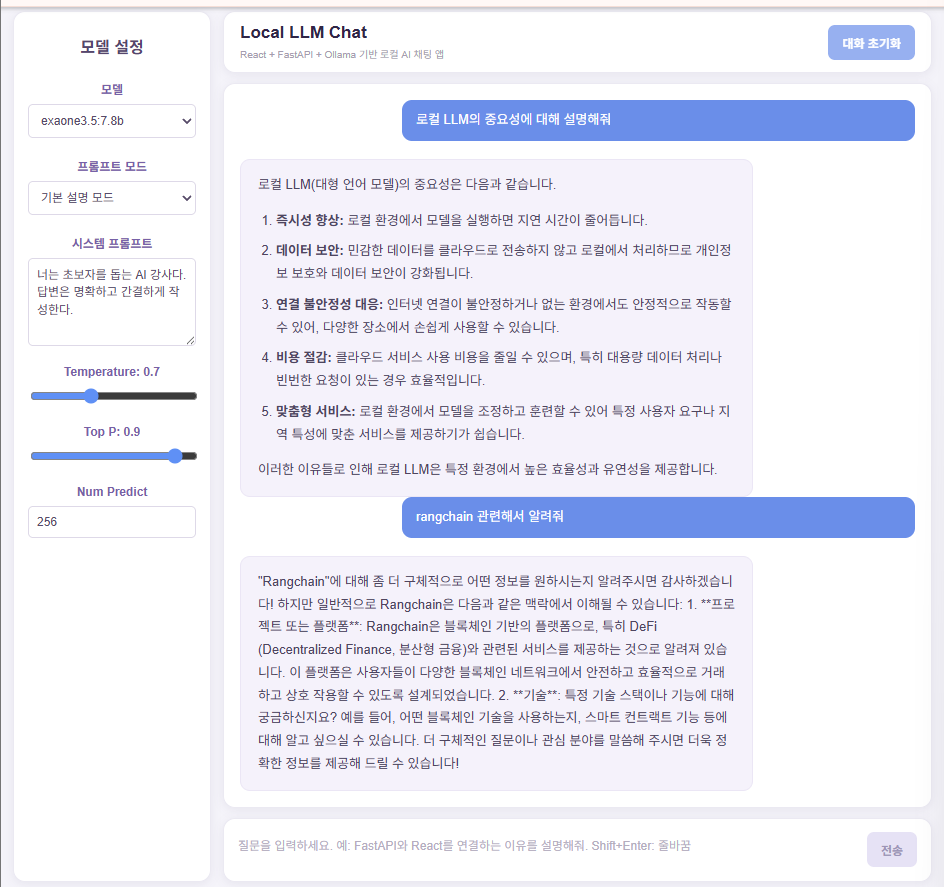
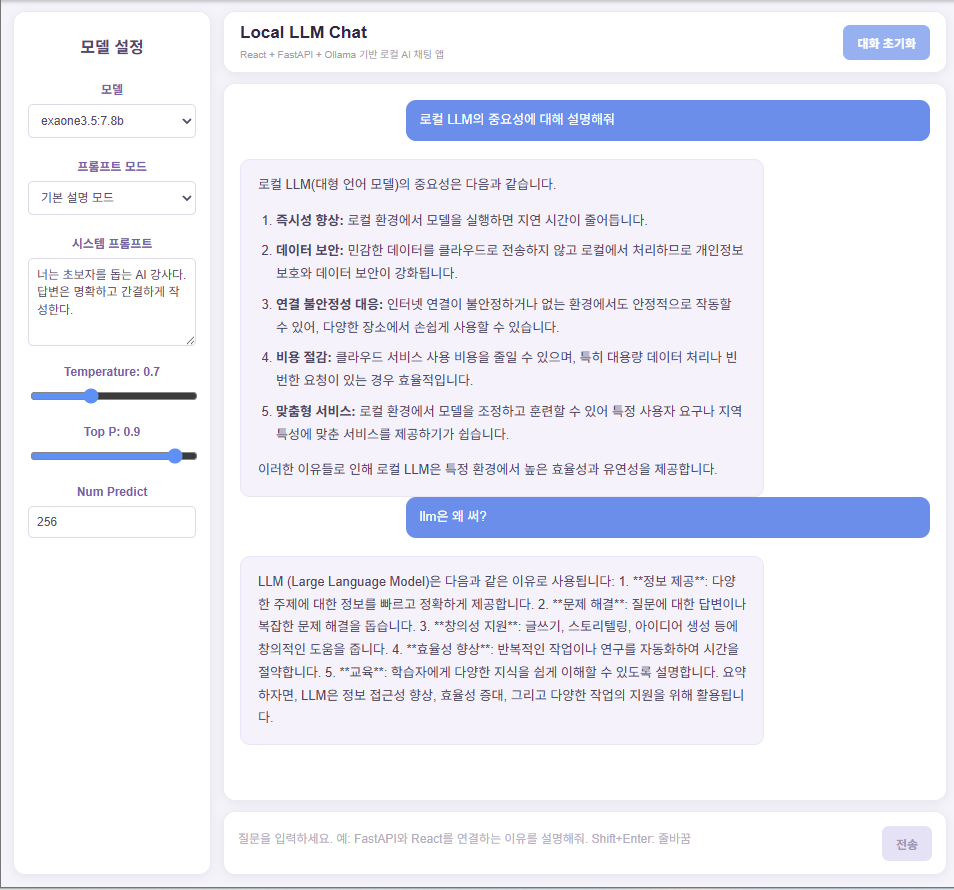
docs: update README image

diff --git a/README.md b/README.md
@@ -1,3 +1,3 @@
 ## 화면
 
-![alt text](./image/image.png)
+![alt text](image.png)
